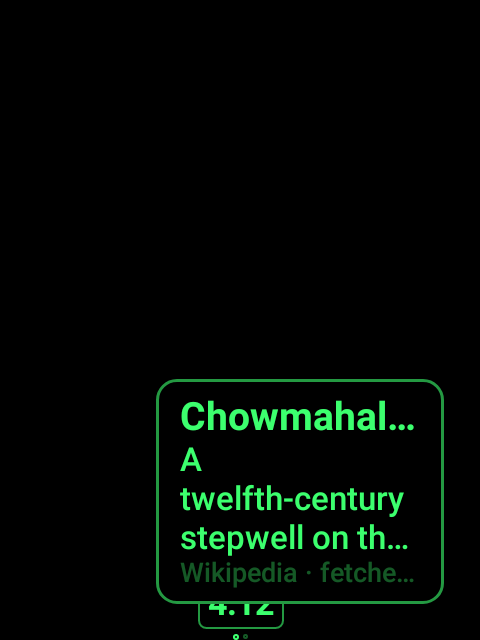
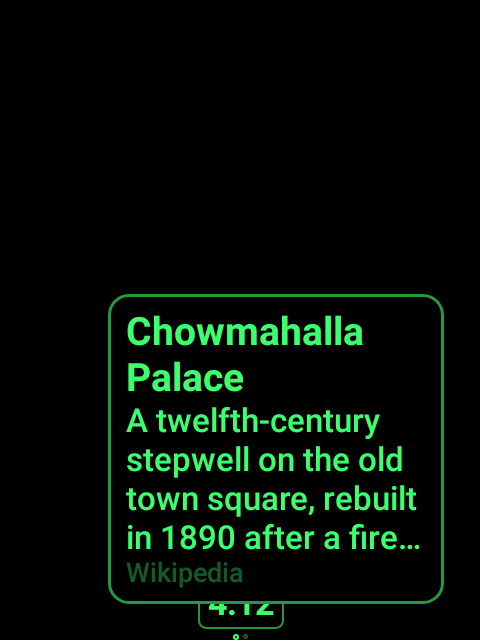
HUD: wider, more readable LEFT/RIGHT place cards (70%, 2-line title, 4 body lines, short source); centre unchanged

Changed region(s): [[0.2188, 0.4375, 0.9062, 0.9688], [0.875, 0.4688, 0.9375, 0.625]]

diff --git a/android-companion/core/hud/src/main/kotlin/com/rokid/context/core/hud/render/Overlays.kt b/android-companion/core/hud/src/main/kotlin/com/rokid/context/core/hud/render/Overlays.kt
@@ -35,11 +35,11 @@ import com.rokid.context.core.model.PlaceCardInfo
 
 /** One overlay at full scale in the lower band (spec §3.2–§3.3). */
 @Composable
-fun OverlayView(o: Overlay, confirmHighlightYes: Boolean, recording: Boolean = false) {
+fun OverlayView(o: Overlay, confirmHighlightYes: Boolean, recording: Boolean = false, sideCard: Boolean = false) {
     when (o) {
         is Overlay.Listening -> ListeningOverlay(o.partial, recording)
         is Overlay.Answer -> AnswerCard(o)
-        is Overlay.Nudge -> if (o.place != null) PlaceCardView(o.place!!) else NudgeToast(o.text)
+        is Overlay.Nudge -> if (o.place != null) PlaceCardView(o.place!!, sideCard) else NudgeToast(o.text)
         is Overlay.Confirm -> ConfirmOverlay(o.title, o.detail, confirmHighlightYes)
         Overlay.PausedSplash -> PausedSplash()
         is Overlay.Toast -> HudToast(o.text)
@@ -91,14 +91,15 @@ fun NudgeToast(text: String) {
 
 /** Place Guide card (PG3): title, one line, and the source (or "nearby · not checked"). Same band and position as every overlay. */
 @Composable
-fun PlaceCardView(c: PlaceCardInfo) {
+fun PlaceCardView(c: PlaceCardInfo, side: Boolean = false) {
+    // side (LEFT/RIGHT) cards are narrower than the centre card: 2-line title, 4 body lines, a short source. The centre card is unchanged.
     Column(
         Modifier.background(Color.Black).border(Hud.STROKE, Hud.Green.copy(alpha = Hud.SECONDARY), RoundedCornerShape(14.dp))
-            .padding(horizontal = 16.dp, vertical = 10.dp),
+            .padding(horizontal = if (side) 12.dp else 16.dp, vertical = 10.dp),
     ) {
-        Label(c.title, 26.sp, Hud.PRIMARY, FontWeight.Bold, maxLines = 1, overflow = TextOverflow.Ellipsis)
-        Label(c.line, 22.sp, Hud.PRIMARY, maxLines = 3, overflow = TextOverflow.Ellipsis)
-        Label(c.source, 18.sp, Hud.TERTIARY, maxLines = 1, overflow = TextOverflow.Ellipsis)
+        Label(c.title, 26.sp, Hud.PRIMARY, FontWeight.Bold, maxLines = if (side) 2 else 1, overflow = TextOverflow.Ellipsis)
+        Label(c.line, 22.sp, Hud.PRIMARY, maxLines = if (side) 4 else 3, overflow = TextOverflow.Ellipsis)
+        Label(if (side) PlaceCardLayout.shortSource(c.source) else c.source, 18.sp, Hud.TERTIARY, maxLines = 1, overflow = TextOverflow.Ellipsis)
     }
 }
 

diff --git a/android-companion/core/hud/src/test/kotlin/com/rokid/context/core/hud/render/PlaceCardLayoutTest.kt b/android-companion/core/hud/src/test/kotlin/com/rokid/context/core/hud/render/PlaceCardLayoutTest.kt
@@ -15,9 +15,9 @@ class PlaceCardLayoutTest {
     }
 
     @Test fun leftAndRightOn240And320() {
-        assertEquals(PlaceCardBox(PlaceSide.LEFT, 144f, 24f), PlaceCardLayout.compute(PlaceSide.LEFT, 240f))
-        assertEquals(PlaceCardBox(PlaceSide.RIGHT, 144f, 24f), PlaceCardLayout.compute(PlaceSide.RIGHT, 240f))
-        assertEquals(PlaceCardBox(PlaceSide.LEFT, 192f, 24f), PlaceCardLayout.compute(PlaceSide.LEFT, 320f))
+        assertEquals(PlaceCardBox(PlaceSide.LEFT, 168f, 24f), PlaceCardLayout.compute(PlaceSide.LEFT, 240f))
+        assertEquals(PlaceCardBox(PlaceSide.RIGHT, 168f, 24f), PlaceCardLayout.compute(PlaceSide.RIGHT, 240f))
+        assertEquals(PlaceCardBox(PlaceSide.LEFT, 224f, 24f), PlaceCardLayout.compute(PlaceSide.LEFT, 320f))
     }
 
     @Test fun aSideCardIsAlwaysInsideTheDisplayWithItsMargins() {
@@ -33,6 +33,13 @@ class PlaceCardLayoutTest {
     @Test fun aSmallDisplayShrinksTheCardAndTheMargin() {
         assertEquals(PlaceCardBox(PlaceSide.RIGHT, 72f, 24f), PlaceCardLayout.compute(PlaceSide.RIGHT, 120f))
         assertEquals(PlaceCardBox(PlaceSide.LEFT, 20f, 10f), PlaceCardLayout.compute(PlaceSide.LEFT, 40f))
+    }
+
+    @Test fun sideSourceDropsTheFetchedDate() {
+        assertEquals("Wikipedia", PlaceCardLayout.shortSource("Wikipedia \u00b7 fetched 12 Nov"))
+        assertEquals("Suggestion \u00b7 Wikipedia", PlaceCardLayout.shortSource("Suggestion \u00b7 Wikipedia \u00b7 fetched 12 Nov"))
+        assertEquals("nearby \u00b7 not checked", PlaceCardLayout.shortSource("nearby \u00b7 not checked"))
+        assertEquals("fetched 1 Nov", PlaceCardLayout.shortSource("fetched 1 Nov"))
     }
 
     @Test fun anUnusableDisplayFallsBackToCentre() {

diff --git a/android-companion/core/hud/src/main/kotlin/com/rokid/context/core/hud/render/PlaceCardLayout.kt b/android-companion/core/hud/src/main/kotlin/com/rokid/context/core/hud/render/PlaceCardLayout.kt
@@ -16,9 +16,15 @@ object PlaceCardLayout {
     /** Gap kept clear on both screen edges for LEFT and RIGHT (unmeasured; conservative). */
     const val SAFE_MARGIN_DP = 24f
     /** A side card takes at most this fraction of the display width (leaves the other half of the view clear). */
-    const val SIDE_WIDTH_FRACTION = 0.6f
+    const val SIDE_WIDTH_FRACTION = 0.7f
     /** Narrowest a side card is made while the display allows it. */
     const val MIN_WIDTH_DP = 120f
+
+    /** Side cards only: drops the " · fetched <date>" part of a source line ("Wikipedia · fetched 12 Nov" -> "Wikipedia"); "nearby · not checked" is kept. */
+    fun shortSource(source: String): String {
+        val parts = source.split(" \u00b7 ").filterNot { it.trim().startsWith("fetched") }
+        return if (parts.isEmpty()) source else parts.joinToString(" \u00b7 ")
+    }
 
     /**
      * CENTRE = [PlaceCardBox] with no width and no inset: the caller applies no modifier, so the card is exactly as before. LEFT and RIGHT: a card of [SIDE_WIDTH_FRACTION] of the display,

diff --git a/android-companion/core/hud/src/main/kotlin/com/rokid/context/core/hud/render/HudRoot.kt b/android-companion/core/hud/src/main/kotlin/com/rokid/context/core/hud/render/HudRoot.kt
@@ -86,7 +86,7 @@ fun HudRoot(m: HudModel) {
             // B2: a LEFT or RIGHT place card; the geometry is PlaceCardLayout (unmeasured FOV: tune worn)
             val box = PlaceCardLayout.compute(placeSide, maxWidth.value)
             val edge = if (box.side == PlaceSide.LEFT) Modifier.align(Alignment.BottomStart).padding(start = box.insetDp.dp) else Modifier.align(Alignment.BottomEnd).padding(end = box.insetDp.dp)
-            Box(edge.padding(bottom = 24.dp).let { mod -> box.widthDp?.let { mod.width(it.dp) } ?: mod }, contentAlignment = if (box.side == PlaceSide.LEFT) Alignment.TopStart else Alignment.TopEnd) { OverlayView(overlay, m.confirmHighlightYes, m.recording) }
+            Box(edge.padding(bottom = 24.dp).let { mod -> box.widthDp?.let { mod.width(it.dp) } ?: mod }, contentAlignment = if (box.side == PlaceSide.LEFT) Alignment.TopStart else Alignment.TopEnd) { OverlayView(overlay, m.confirmHighlightYes, m.recording, sideCard = true) }
         }
     }
 }

diff --git a/docs/superpowers/reviews/2026-11/placement-preview/README.md b/docs/superpowers/reviews/2026-11/placement-preview/README.md
@@ -14,7 +14,8 @@ Real optics, the unmeasured field of view / waveguide visible area, brightness, 
 
 ## Observations
 - The CENTRE card is edge to edge: its border sits at x=0 and x=480, no margin. If the visible area is smaller than the panel (likely), the border and text start would be clipped. This is the pre-B2 layout.
-- LEFT/RIGHT cards are 144 dp wide (60%) with a 24 dp inset. The 140-char line shows only about 5-6 words (3 lines, then an ellipsis); the title is truncated ("Chowmahal…" for a 17-char name); the source is cut ("Wikipedia · fetche…", "Suggestion · Wiki…"). Legible, but most of the content is lost; a side card works as a pointer, not something to read.
+- LEFT/RIGHT before (60% = 144 dp): title cut ("Chowmahal..."), body 3 lines (~5-6 words), source cut ("Wikipedia · fetche...", "Suggestion · Wiki..").
+- LEFT/RIGHT after (70% = 168 dp, 24 dp margin, 12 dp side padding): the title wraps to 2 lines ("Chowmahalla / Palace" in full), the body gets 4 lines (about 12 words, still ellipsised), and the source is shortened to "Wikipedia" / "Suggestion · Wikipedia" (the fetched date is dropped on side cards only; "nearby · not checked" is kept). Title, body start and source are now readable; the full 140-char line still does not fit. The card is taller, grows upward from the same bottom anchor, and touches the countdown no more than before. CENTRE is unchanged (byte-identical).
 - The card sits over the Glance page: it hides the REC/phone/battery row and leaves only the top half of the "NEXT 4:12" digits and the page dots visible below it. CENTRE does the same (overlays draw in the lower band over the page). This is the existing overlay design, not a side-card regression.
 - No LEFT/RIGHT card element runs outside the 480x640 frame.
-- No layout fix was made: nothing was a clear-cut bug; the above are design trade-offs (wider side cards, 2-line title, hiding the page under a card, a CENTRE margin).
+- Remaining limits: real optics, field of view, brightness and the real font are not shown (the side offsets still need tuning while worn); the CENTRE card has no margin (existing design, deliberately untouched); the card still hides the page under it.
